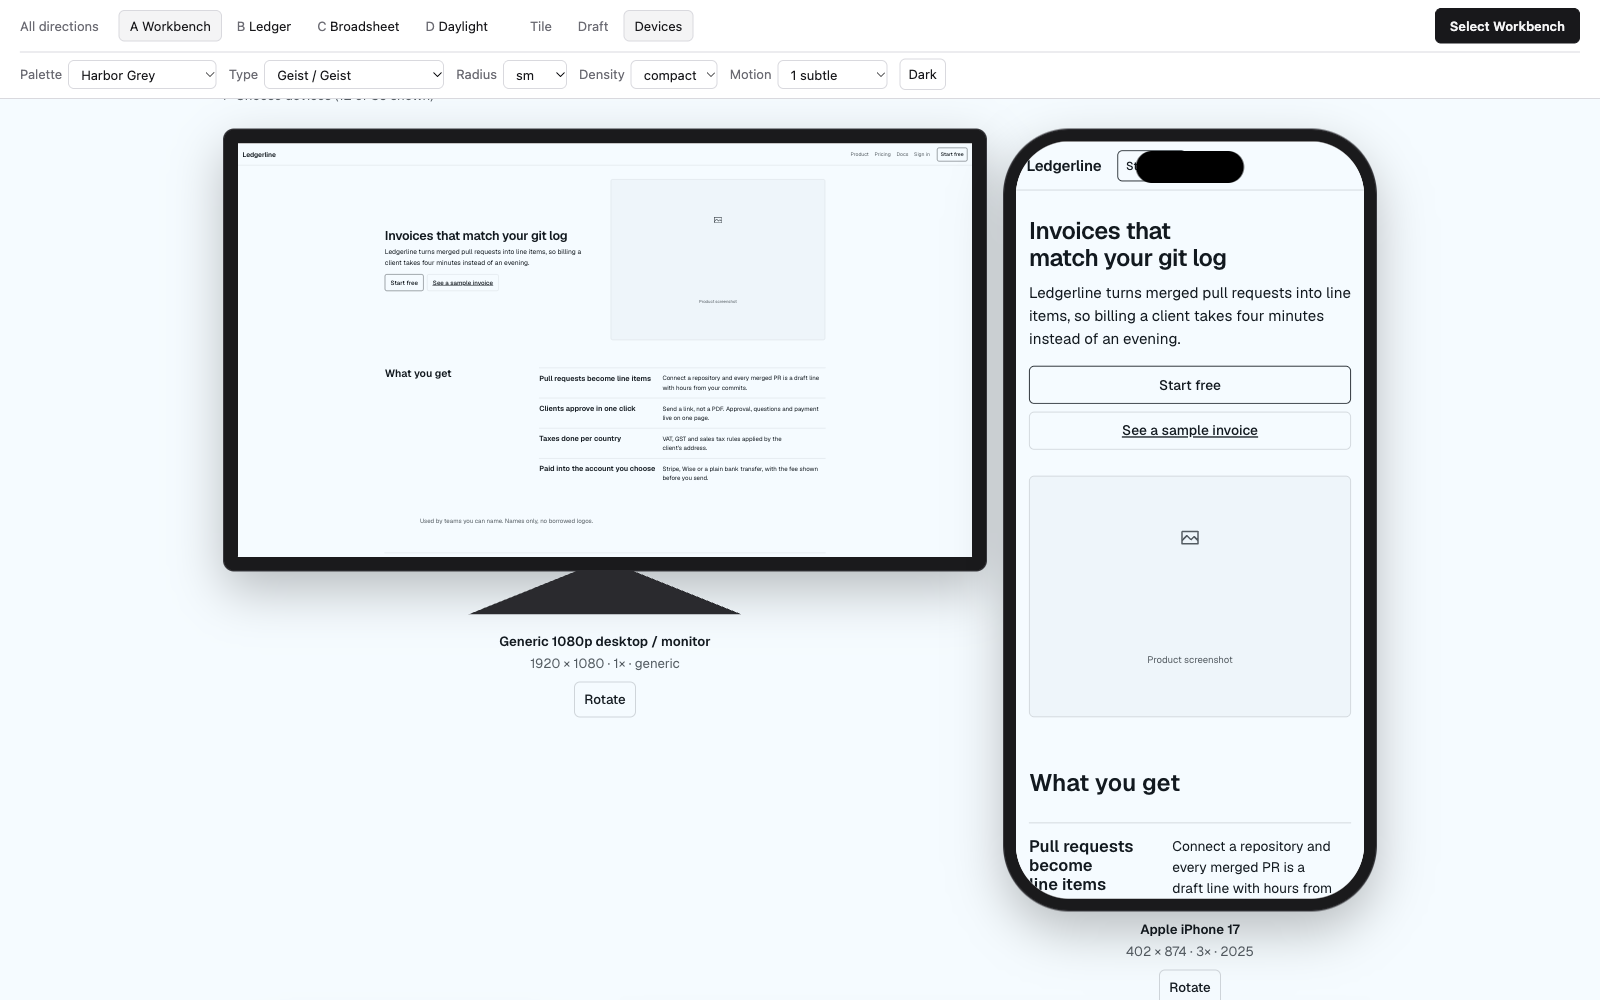
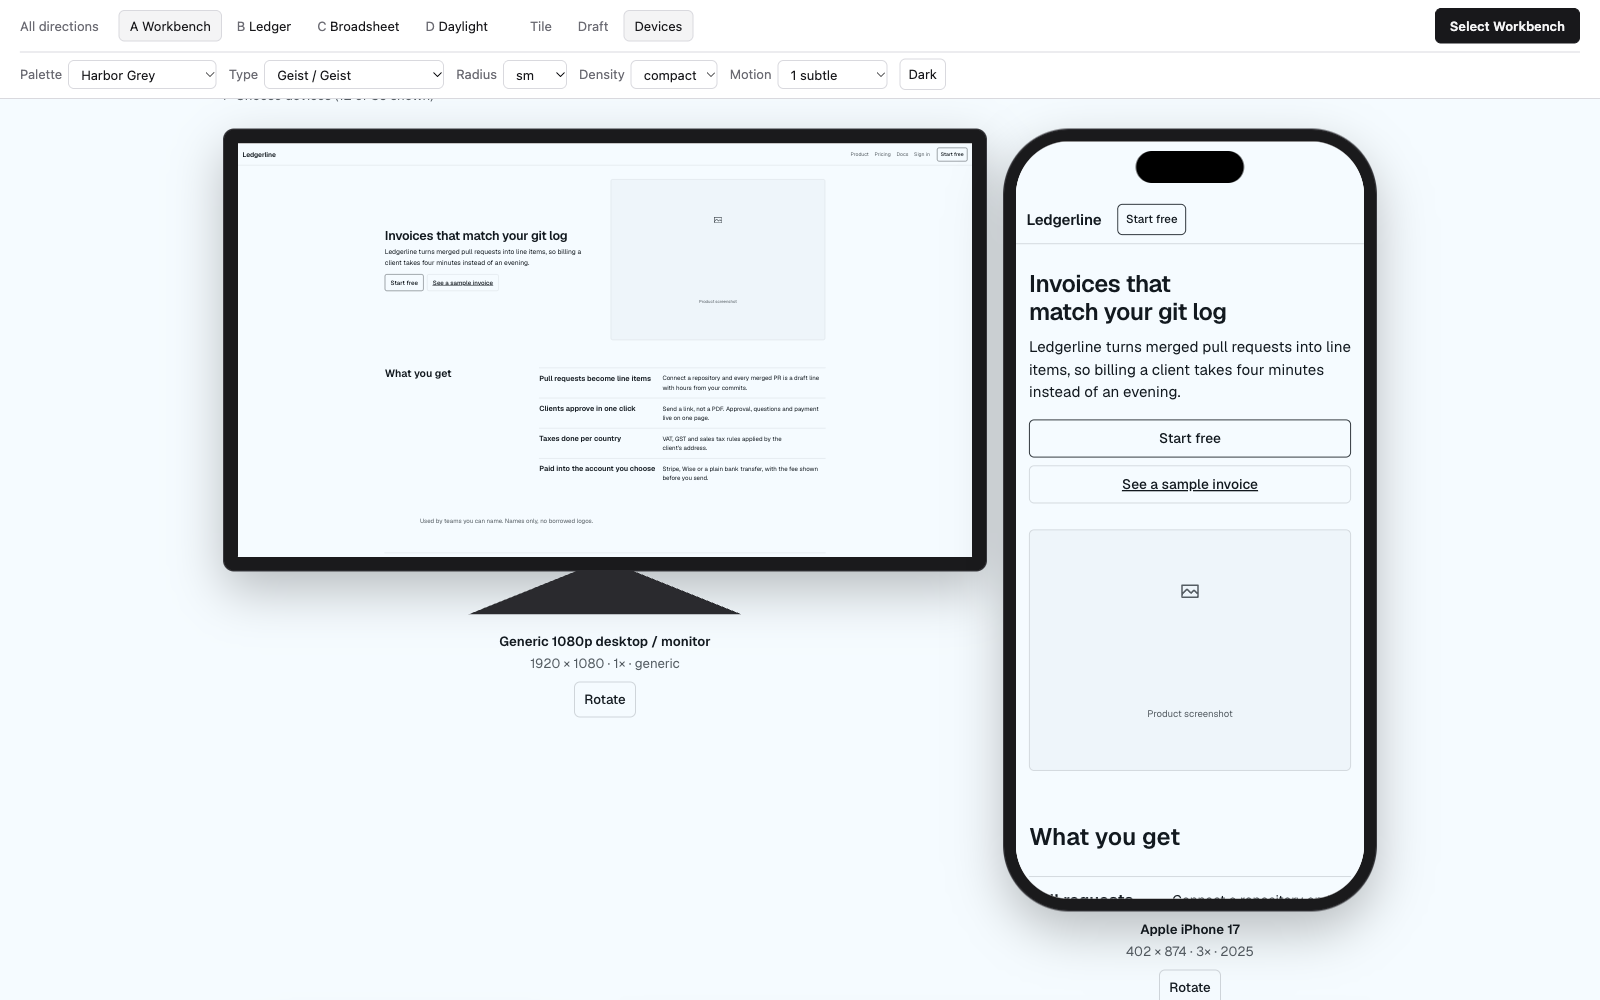
feat(devices): pass device safe areas into the embedded draft

diff --git a/skills/preview-first/assets/preview/preview.js b/skills/preview-first/assets/preview/preview.js
@@ -49,6 +49,11 @@
 
   // Embed mode (gallery thumbnails and device frames): hide chrome, take state from the URL.
   if (params.get("embed") === "1") root.setAttribute("data-embed", "1");
+  // Device frames pass the device's safe areas so the embedded draft pads itself like a real page.
+  ["top", "bottom", "left", "right"].forEach(function (side) {
+    var v = parseInt(params.get("sa-" + side) || "0", 10);
+    if (v > 0) root.style.setProperty("--pf-safe-" + side, v + "px");
+  });
   var saved = readSaved();
   CONTROLS.concat(["theme"]).forEach(function (k) {
     var v = params.get(k) || saved[k];
@@ -190,6 +195,11 @@
       var url = new URL("draft.html", location.href);
       Object.keys(state).forEach(function (k) { if (state[k] && state[k] !== "system") url.searchParams.set(k, state[k]); });
       url.searchParams.set("embed", "1");
+      var rotated = dev.getAttribute("data-rotated") === "1";
+      var cs = getComputedStyle(dev);
+      var top = parseInt(cs.getPropertyValue("--sa-top") || "0", 10), bottom = parseInt(cs.getPropertyValue("--sa-bottom") || "0", 10);
+      if (rotated) { url.searchParams.set("sa-left", top); url.searchParams.set("sa-right", top); url.searchParams.set("sa-bottom", Math.min(bottom, 21)); }
+      else { url.searchParams.set("sa-top", top); url.searchParams.set("sa-bottom", bottom); }
       return url.toString();
     }
     function layout(dev) {
@@ -227,6 +237,7 @@
       var rot = dev.querySelector('[data-action="rotate"]');
       if (rot) rot.addEventListener("click", function () {
         dev.setAttribute("data-rotated", dev.getAttribute("data-rotated") === "1" ? "0" : "1");
+        if (!externalUrl) dev.querySelector("iframe").setAttribute("src", frameSrc(dev));
         layout(dev);
       });
     });

diff --git a/skills/preview-first/assets/preview/draft.css b/skills/preview-first/assets/preview/draft.css
@@ -1,6 +1,9 @@
 /* preview-first: drafted page layouts (.pfd-*). Every section has variants chosen by the style,
    so two directions never share a layout by default. Uses the direction's tokens only. */
-.pfd { min-height: 100vh; }
+.pfd { min-height: 100vh; padding-top: var(--pf-safe-top, 0px); padding-bottom: var(--pf-safe-bottom, 0px); padding-left: var(--pf-safe-left, 0px); padding-right: var(--pf-safe-right, 0px); }
+@supports (padding-top: env(safe-area-inset-top)) {
+  .pfd { padding-top: max(var(--pf-safe-top, 0px), env(safe-area-inset-top)); padding-bottom: max(var(--pf-safe-bottom, 0px), env(safe-area-inset-bottom)); }
+}
 .pfd section { padding: var(--pf-space-12) var(--pf-space-8); max-width: 1200px; margin: 0 auto; }
 .pfd-media { position: relative; display: grid; place-items: center; gap: var(--pf-space-2); width: 100%; color: var(--pf-color-text-muted);
   background: var(--pf-color-surface); border: 1px solid var(--pf-color-border); border-radius: var(--pf-radius-md); font-size: var(--pf-text-xs); overflow: hidden; }

diff --git a/tests/test_drafts.py b/tests/test_drafts.py
@@ -98,3 +98,11 @@ def test_build_writes_draft_and_devices(tmp_path, directions):
     assert (tmp_path / "A/draft.html").exists() and (tmp_path / "A/devices.html").exists()
     html = (tmp_path / "A/devices.html").read_text()
     assert "device-frames.css" in html
+
+
+def test_draft_css_and_js_handle_safe_areas():
+    from conftest import ROOT
+    css = (ROOT / "skills/preview-first/assets/preview/draft.css").read_text()
+    js = (ROOT / "skills/preview-first/assets/preview/preview.js").read_text()
+    assert "--pf-safe-top" in css and "env(safe-area-inset-top)" in css
+    assert 'sa-top' in js and "--pf-safe-" in js
